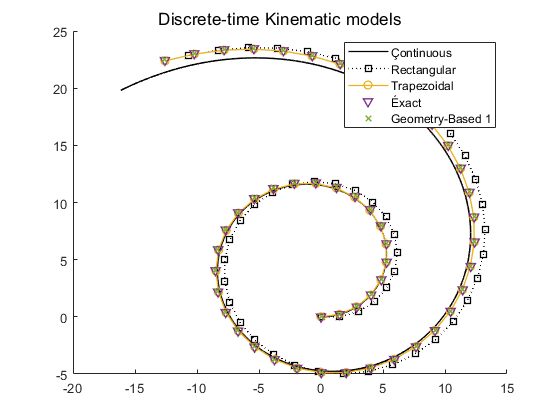
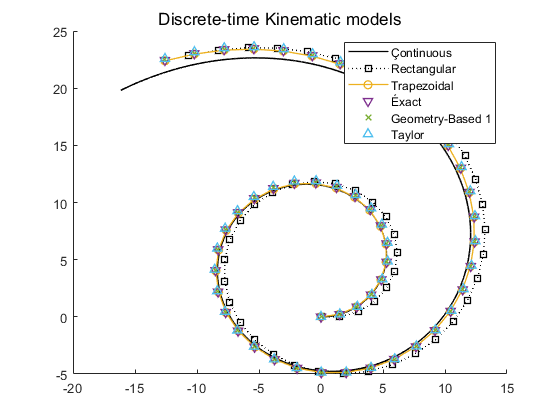
Taylor model added

diff --git a/simulation.m b/simulation.m
@@ -72,6 +72,10 @@ phd_exact(ii) = phd_exact(ii-1)+dph;
 xd3(ii+1)=xd3(ii)+v*T*(cos(phd(ii)+dph/2) );
 yd3(ii+1)=yd3(ii)+v*T*(sin(phd(ii)+dph/2) );
 
+xd4(ii)=xd4(ii-1)+((v*dph)./w)*(cos(phd_exact(ii-1)) - 0.5*sin(phd_exact(ii-1))*dph);
+yd4(ii)=yd4(ii-1)+((v*dph)./w)*(sin(phd_exact(ii-1)) + 0.5*cos(phd_exact(ii-1))*dph);
+phd_exact(ii) = phd_exact(ii-1)+dph;
+
 phd(ii+1)=phd(ii)+dph;
 end
 hold on;
@@ -80,5 +84,6 @@ plot(xd,yd,'ks:','linewidth',1);
 plot(xd1,yd1,'-o','linewidth',1);
 plot(xd2,yd2,'v','linewidth',1);
 plot(xd3,yd3,'x','linewidth',1);
-legend('Çontinuous','Rectangular','Trapezoidal','Éxact','Geometry-Based 1')
+plot(xd4,yd4,'^','linewidth',1);
+legend('Çontinuous','Rectangular','Trapezoidal','Éxact','Geometry-Based 1','Taylor')
 sgtitle('Discrete-time Kinematic models')
